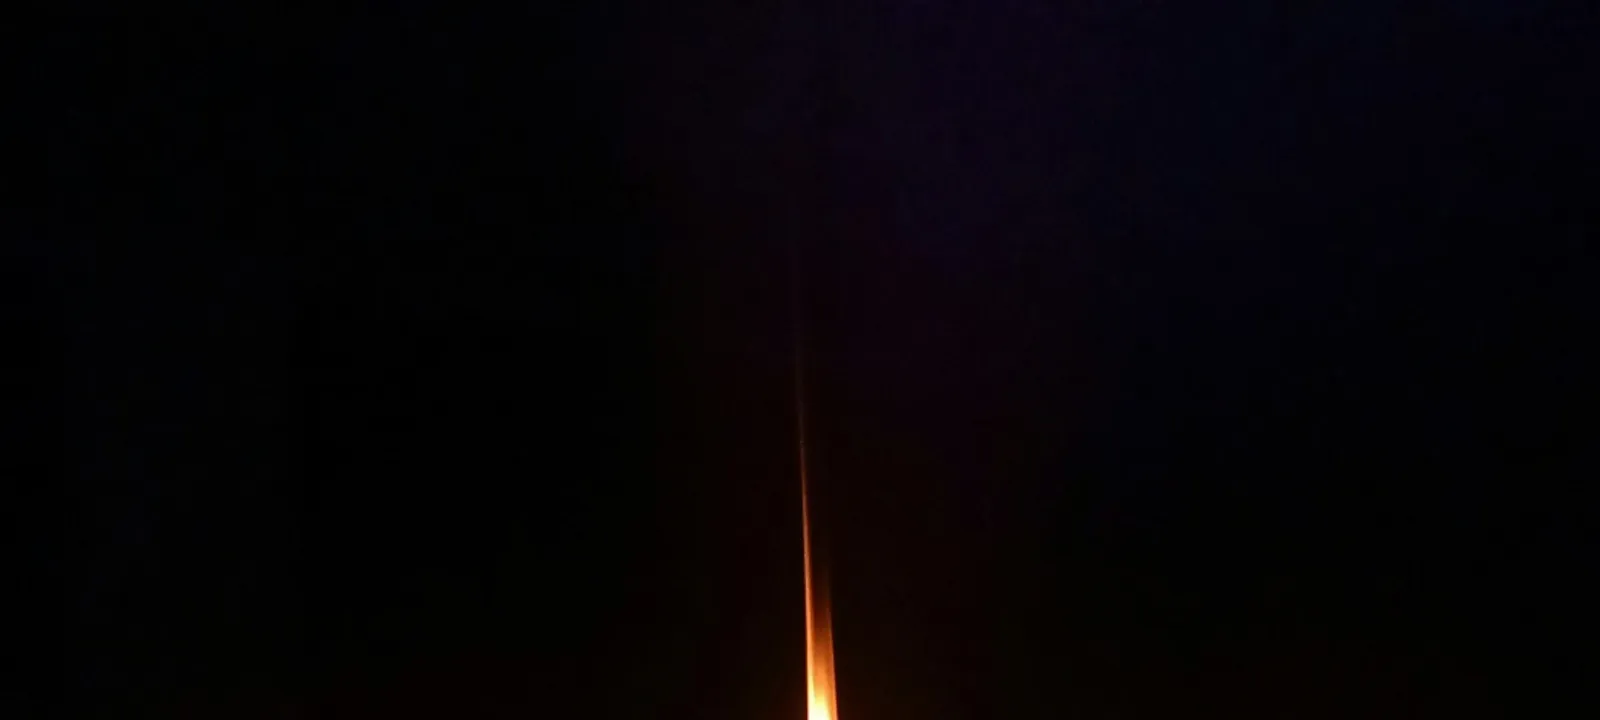
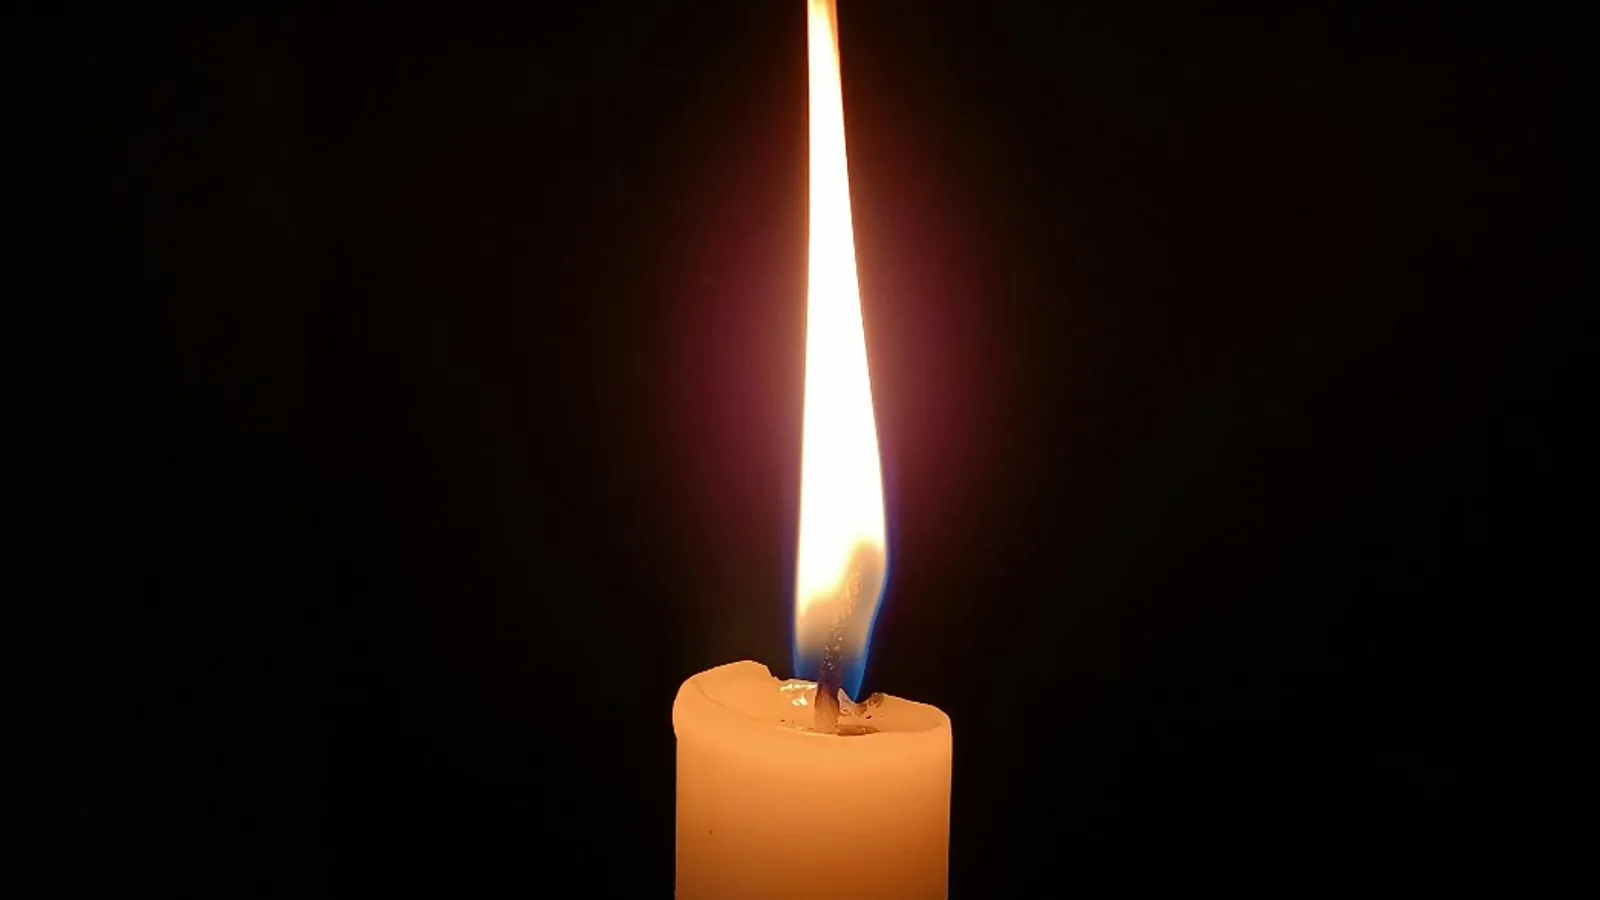
Ajustes de diseño: hero, menú mobile, catálogo, categorías y botones
- Hero: imagen landscape propia en desktop y foto vertical original en mobile.
- Menú mobile: panel sólido de altura completa (se corrige el atrapamiento por
  backdrop-filter del header, que dejaba el fondo transparente y links flotando).
- Íconos de botones y del mapa con tamaño fijo (botón "Agregar" y pin ya no se
  agrandan); botón de WhatsApp del checkout más chico.
- Catálogo: encabezado solo texto (sin foto de fondo) y categorías reorganizadas
  sin el hueco superior.
- Tarjetas de categoría recortadas por contenido (muestran el sujeto real).
- Nueva imagen en la banda "Nuestra historia" (inicio) y en Nosotros.
- Crédito en el footer: desarrollado por @ivma.dv.

Changed region(s): [[0.375, 0.0, 0.6562, 1.0]]

diff --git a/assets/css/style.css b/assets/css/style.css
@@ -75,6 +75,8 @@ h1, h2, h3, h4 { font-family: var(--serif); font-weight: 500; line-height: 1.1; 
 .btn--block { width: 100%; }
 .btn--lg { padding: 1.05em 2.2em; font-size: .86rem; }
 .btn:disabled { opacity: .45; cursor: not-allowed; transform: none; box-shadow: none; }
+.btn svg { width: 1.1em; height: 1.1em; flex: 0 0 auto; }
+.map-hint svg { width: 16px; height: 16px; flex: 0 0 auto; }
 
 /* ---------- Header ---------- */
 .site-header {
@@ -124,6 +126,10 @@ h1, h2, h3, h4 { font-family: var(--serif); font-weight: 500; line-height: 1.1; 
   position: relative; min-height: min(88vh, 760px);
   display: flex; align-items: center;
   background: var(--sand) center/cover no-repeat;
+  background-image: url(../img/hero/home.jpg);
+}
+@media (max-width: 760px) {
+  .hero { min-height: min(82vh, 680px); background-image: url(../img/hero/home-mobile.jpg); }
 }
 .hero::after { content: ""; position: absolute; inset: 0;
   background: linear-gradient(100deg, rgba(40,32,22,.42) 0%, rgba(40,32,22,.14) 42%, rgba(40,32,22,0) 66%); }
@@ -185,6 +191,13 @@ h1, h2, h3, h4 { font-family: var(--serif); font-weight: 500; line-height: 1.1; 
 .card__view svg { width: 18px; height: 18px; }
 
 /* ---------- Catalog toolbar / filters ---------- */
+/* text-only catalog header */
+.catalog-intro { text-align: center; padding: clamp(38px,5.5vw,68px) 0 clamp(16px,2.5vw,26px); }
+.catalog-intro h1 { font-size: clamp(2.3rem,4.8vw,3.5rem); color: var(--ink); margin-top: .2rem; }
+.catalog-intro p { color: var(--ink-soft); max-width: 52ch; margin: .9rem auto 0; font-size: 1.05rem; }
+.catalog-body { padding-top: clamp(14px,2vw,22px); }
+.catalog-body .catalog-meta { margin-top: .3rem; }
+
 .catalog-hero { background: var(--sand) center/cover; position: relative; }
 .catalog-hero::after { content:""; position:absolute; inset:0; background: linear-gradient(rgba(30,24,16,.30), rgba(30,24,16,.45)); }
 .catalog-hero__inner { position: relative; z-index: 2; padding: clamp(52px,8vw,96px) 0; color: #fff; text-align: center; }
@@ -393,9 +406,12 @@ h1, h2, h3, h4 { font-family: var(--serif); font-weight: 500; line-height: 1.1; 
   .modal__media img { max-height: 300px; }
 }
 @media (max-width: 760px) {
+  /* backdrop-filter en el header crea un containing-block que atraparía al menú fijo:
+     en mobile lo desactivamos (fondo sólido) para que el panel mida contra la pantalla. */
+  .site-header { -webkit-backdrop-filter: none; backdrop-filter: none; background: var(--cream); }
   .nav {
-    position: fixed; top: 0; right: 0; height: 100%; width: min(300px,80%); z-index: 601;
-    background: var(--cream-2); flex-direction: column; align-items: flex-start; justify-content: flex-start;
+    position: fixed; top: 0; right: 0; bottom: 0; height: auto; width: min(300px,80%); z-index: 601;
+    overflow-y: auto; background: var(--cream-2); flex-direction: column; align-items: flex-start; justify-content: flex-start;
     padding: calc(var(--header-h) + 1.5rem) 2rem 2rem; gap: 1.6rem; transform: translateX(100%);
     transition: transform .32s ease; box-shadow: var(--shadow-lg);
   }

diff --git a/index.html b/index.html
@@ -51,7 +51,7 @@
 
 <main>
   <!-- HERO -->
-  <section class="hero" style="background-image:url(assets/img/hero/home.jpg)">
+  <section class="hero">
     <div class="wrap">
       <div class="hero__inner">
         <p class="eyebrow">Desde 1981 · Asunción, Paraguay</p>
@@ -106,7 +106,7 @@
   <section class="section band">
     <div class="wrap split">
       <div>
-        <picture><source srcset="assets/img/hero/decorativas.webp" type="image/webp"><img src="assets/img/hero/decorativas.jpg" alt="Velas decorativas Rilape en un ambiente cálido" loading="lazy"></picture>
+        <picture><source srcset="assets/img/hero/historia.webp" type="image/webp"><img src="assets/img/hero/historia.jpg" alt="Velas encendidas de Rilape — fabricación artesanal" loading="lazy"></picture>
       </div>
       <div class="story-copy">
         <p class="eyebrow">Nuestra historia</p>
@@ -161,7 +161,7 @@
     </div>
     <div class="foot-bottom">
       <span>© <span id="yr"></span> Rilape Velas. Todos los derechos reservados.</span>
-      <span>Hecho en Asunción, Paraguay 🇵🇾</span>
+      <span>Hecho en Asunción, Paraguay 🇵🇾 · Desarrollado por <a href="https://www.instagram.com/ivma.dv/" target="_blank" rel="noopener" style="color:#c9bdac;text-decoration:underline;text-underline-offset:2px">@ivma.dv</a></span>
     </div>
   </div>
 </footer>

diff --git a/nosotros.html b/nosotros.html
@@ -64,7 +64,7 @@
         <a class="btn btn--gold" href="catalogo.html" style="margin-top:.6rem">Ver el catálogo</a>
       </div>
       <div>
-        <picture><source srcset="assets/img/hero/religiosas.webp" type="image/webp"><img src="assets/img/hero/religiosas.jpg" alt="Cirios y velones religiosos Rilape" loading="lazy" style="border-radius:var(--radius);box-shadow:var(--shadow-md)"></picture>
+        <picture><source srcset="assets/img/hero/nosotros.webp" type="image/webp"><img src="assets/img/hero/nosotros.jpg" alt="Vela artesanal de Rilape encendida" loading="lazy" style="border-radius:var(--radius);box-shadow:var(--shadow-md)"></picture>
       </div>
     </div>
   </section>
@@ -134,7 +134,7 @@
     </div>
     <div class="foot-bottom">
       <span>© <span id="yr"></span> Rilape Velas. Todos los derechos reservados.</span>
-      <span>Hecho en Asunción, Paraguay 🇵🇾</span>
+      <span>Hecho en Asunción, Paraguay 🇵🇾 · Desarrollado por <a href="https://www.instagram.com/ivma.dv/" target="_blank" rel="noopener" style="color:#c9bdac;text-decoration:underline;text-underline-offset:2px">@ivma.dv</a></span>
     </div>
   </div>
 </footer>

diff --git a/catalogo.html b/catalogo.html
@@ -45,8 +45,8 @@
 </header>
 
 <main>
-  <section class="catalog-hero" style="background-image:url(assets/img/hero/decorativas.jpg)">
-    <div class="wrap catalog-hero__inner">
+  <section class="catalog-intro">
+    <div class="wrap center">
       <p class="eyebrow">Catálogo 2024</p>
       <h1>Nuestro catálogo de velas</h1>
       <p>Más de 600 variedades hechas de forma artesanal. Filtrá por categoría, agregá al pedido y finalizá por WhatsApp.</p>
@@ -109,7 +109,7 @@
     </div>
     <div class="foot-bottom">
       <span>© <span id="yr"></span> Rilape Velas. Todos los derechos reservados.</span>
-      <span>Hecho en Asunción, Paraguay 🇵🇾</span>
+      <span>Hecho en Asunción, Paraguay 🇵🇾 · Desarrollado por <a href="https://www.instagram.com/ivma.dv/" target="_blank" rel="noopener" style="color:#c9bdac;text-decoration:underline;text-underline-offset:2px">@ivma.dv</a></span>
     </div>
   </div>
 </footer>

diff --git a/assets/js/app.js b/assets/js/app.js
@@ -131,7 +131,7 @@
         '<div id="delivery-map" role="application" aria-label="Mapa para marcar el punto de entrega"></div>' +
         '<p class="map-hint" data-map-status><span>Tocá el mapa o arrastrá el marcador.</span></p>' +
       '</div>' +
-      '<button class="btn btn--wa btn--block btn--lg" data-send>' + ICON.wa + 'Finalizar pedido por WhatsApp</button>' +
+      '<button class="btn btn--wa btn--block" data-send>' + ICON.wa + 'Finalizar pedido por WhatsApp</button>' +
       '<button class="btn btn--ghost btn--block" style="margin-top:.6rem" data-clear>Vaciar pedido</button>';
   }
 

diff --git a/contacto.html b/contacto.html
@@ -126,7 +126,7 @@
     </div>
     <div class="foot-bottom">
       <span>© <span id="yr"></span> Rilape Velas. Todos los derechos reservados.</span>
-      <span>Hecho en Asunción, Paraguay 🇵🇾</span>
+      <span>Hecho en Asunción, Paraguay 🇵🇾 · Desarrollado por <a href="https://www.instagram.com/ivma.dv/" target="_blank" rel="noopener" style="color:#c9bdac;text-decoration:underline;text-underline-offset:2px">@ivma.dv</a></span>
     </div>
   </div>
 </footer>
